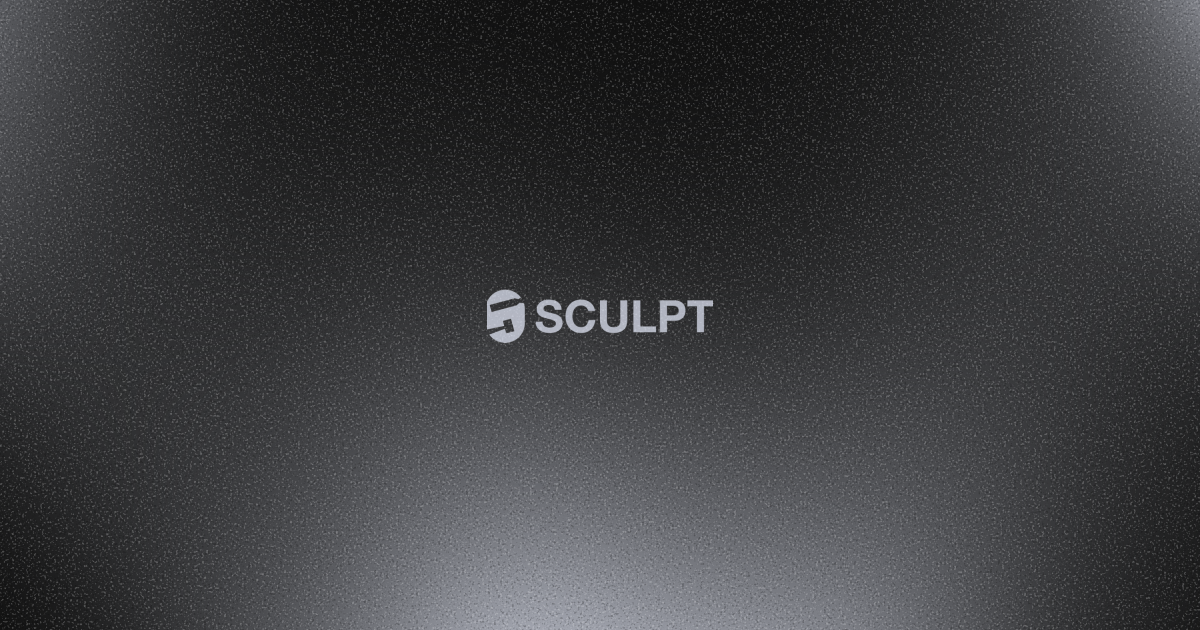
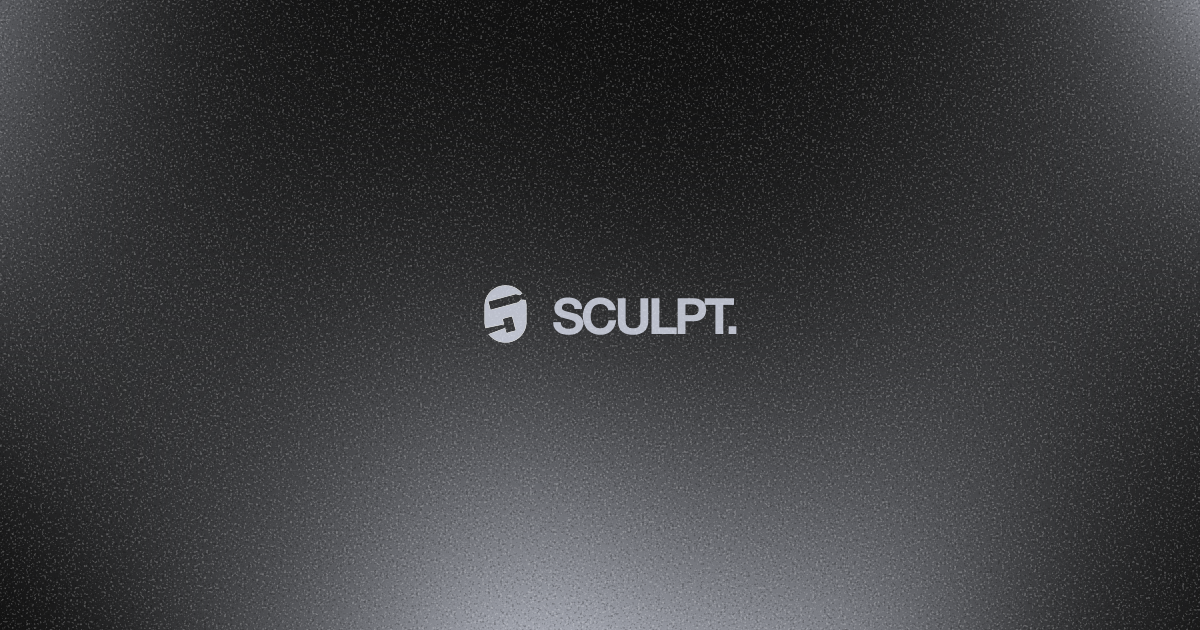
og image change

Changed region(s): [[0.4008, 0.4524, 0.6167, 0.5429]]

diff --git a/app/layout.tsx b/app/layout.tsx
@@ -99,7 +99,7 @@ export const metadata = {
     locale: "en_US",
     images: [
       {
-        url: "/images/s_banner.png",
+        url: "/images/s_banner.jpg",
         width: 1200,
         height: 630,
         alt: "SCULPT - Expert App Development and Digital Solutions",
@@ -122,7 +122,7 @@ export const metadata = {
     creator: "@sculptvisions",
     title: "SCULPT - Expert App Development Agency",
     description: "Premier freelancing agency for mobile apps, web development & AI solutions. Hire top developers via Fiverr, Upwork, or directly.",
-    images: ["/images/s_banner.png"],
+    images: ["/images/s_banner.jpg"],
   },
 
   // Enhanced robots
@@ -223,8 +223,8 @@ export default function RootLayout({
                   image: {
                     "@type": "ImageObject",
                     "@id": "https://www.sculpt.work/#image",
-                    url: "https://www.sculpt.work/images/s_banner.png",
-                    contentUrl: "https://www.sculpt.work/images/s_banner.png",
+                    url: "https://www.sculpt.work/images/s_banner.jpg",
+                    contentUrl: "https://www.sculpt.work/images/s_banner.jpg",
                     width: 1200,
                     height: 630,
                     caption: "SCULPT - App Development Agency"
@@ -351,7 +351,7 @@ export default function RootLayout({
                   "@type": "ProfessionalService",
                   "@id": "https://www.sculpt.work/#professional-service",
                   name: "SCULPT Development Agency",
-                  image: "https://www.sculpt.work/images/s_banner.png",
+                  image: "https://www.sculpt.work/images/s_banner.jpg",
                   description: "Expert app development agency providing custom software solutions, mobile apps, and AI tools for businesses worldwide.",
                   priceRange: "$500-$50000",
                   address: {
